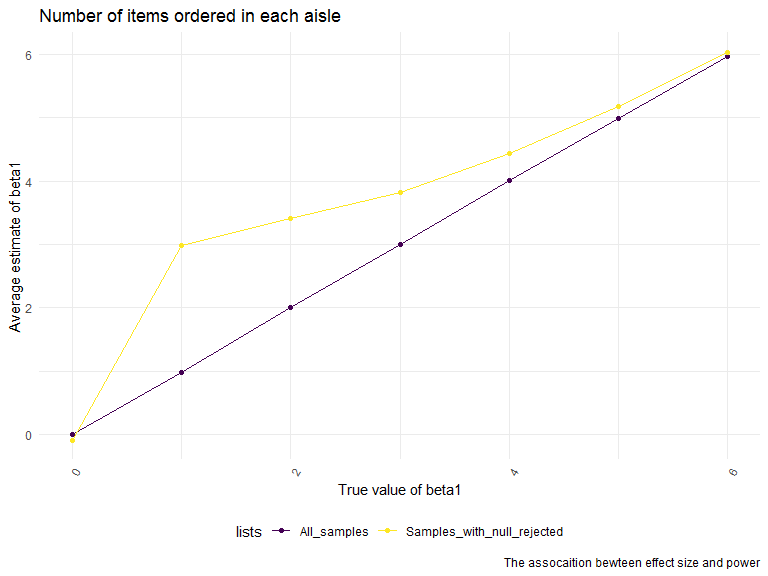
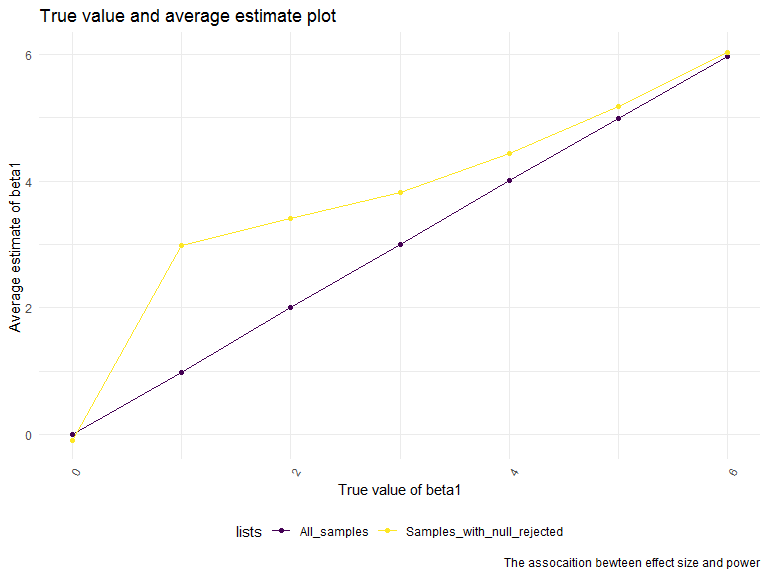
changed plot name and added some content to comments

Changed region(s): [[0.0312, 0.0, 0.4375, 0.0625]]

diff --git a/p8105_hw5_jf3286.md b/p8105_hw5_jf3286.md
@@ -406,9 +406,9 @@ ggplot(aes(x = beta_n, y = proportion)) +
 <img src="p8105_hw5_jf3286_files/figure-gfm/unnamed-chunk-8-1.png" width="90%" />
 
 Describe the association: Power increases as effect size increases. The
-slope (increasing speed) is highest among effect size 2,3,4,5, and the
+slope (increasing speed) is highest among effect size 2,3,4, and the
 incrasing speed (slope) slows down a bit when effect size increases from
-5 to 6.
+4 to 6.
 
 Make a plot showing the average estimate of β^1 on the y axis and the
 true value of β1 on the x axis. Make a second plot overlay on the first,
@@ -441,7 +441,7 @@ njoin = inner_join(all_data,null_r_data) %>%
 ggplot(njoin, aes(x = beta_n, y = means, color = lists)) + 
   geom_point() +
   geom_line()+
-  labs(title = "Number of items ordered in each aisle",
+  labs(title = "True value and average estimate plot",
         x = "True value of beta1",
         y = "Average estimate of beta1",
         caption = "The assocaition bewteen effect size and power") +
@@ -450,9 +450,13 @@ ggplot(njoin, aes(x = beta_n, y = means, color = lists)) +
 
 <img src="p8105_hw5_jf3286_files/figure-gfm/unnamed-chunk-9-1.png" width="90%" />
 
-They are not the same. Because average estimate of samples whose null
-are rejected are mostly larger than true value of beta1(except for true
-value equals 0). This difference might be cause by the missing of true
-value of beta1 whose p\_values are larger than 0.05. Those missing beta
-1 may have samller estimates than true value and missing them may coz a
-increase in estimate of beta1 corresponding to each true value.
+They are not the same but they are close at true value = 5,6. Because
+average estimate of samples whose null are rejected are mostly larger
+than true value of beta1(except for true value equals 0). This
+difference might be cause by the missing of true value of beta1 whose
+p\_values are larger than 0.05. Those missing beta 1 may have samller
+estimates than true value and missing them may coz a increase in
+estimate of beta1 corresponding to each true value. Also, it is
+approaching true value as its true value gets larger, and this indicates
+that those missing beta1 are also increasing and approching true value
+as true value of them increase.
